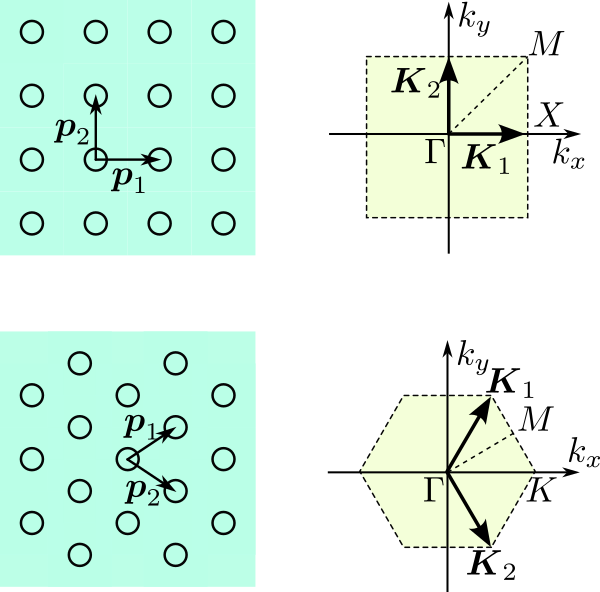
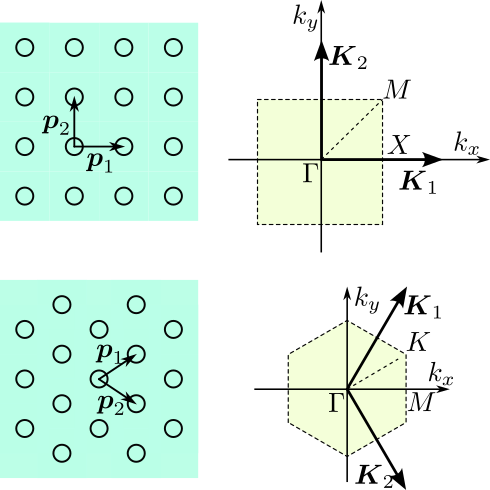
gratings

diff --git a/code/PhC2D_band_diagram.py b/code/PhC2D_band_diagram.py
@@ -3,17 +3,18 @@
 """
 import numpy as np
 from scipy.linalg import toeplitz, eig
+from scipy.special import jv
 import matplotlib.pyplot as plt
 
   # calculate a 2D Toeplitz matrix from a 2D Fourier transform vector
 def toeplitz2(M, nx, ny):
-    CT = np.zeros([2*nx-1, 2*ny-1, 2*ny-1])
+    CT = np.zeros((2*nx-1, ny, ny), dtype=complex)
     for i in range(0, 2*nx-1):
         CT[i,:,:] = toeplitz(M[i,ny-1:],M[i,ny-1::-1])
-    T = np.zeros([(2*nx-1)*(2*ny-1), (2*nx-1)*(2*ny-1)])
+    T = np.zeros((nx*ny, nx*ny), dtype=complex)
     for i in range(0, nx):
         for j in range(0, nx):
-            T[i*ny:(i+1)*ny,j*ny:(j+1)*ny] = CT[nx+j-i,:,:]
+            T[i*ny:(i+1)*ny,j*ny:(j+1)*ny] = CT[nx-1+i-j,:,:]
     return T
 
 class PhotonicCrystal2DCyl:
@@ -33,13 +34,13 @@ class PhotonicCrystal2DCyl:
 
           # calculate the reciprocal lattice vectors and crystal filling factors
         if lattice_type == "square":
-            self.fill_fact = np.pi * radius^2 / period^2; # volume fraction occupied by the cylinders
-            self.K1 = np.array([1, 0])
-            self.K2 = np.array([0, 1])
+            self.fill_fact = np.pi * radius**2 / period**2; # volume fraction occupied by the cylinders
+            self.K1 = np.array([1.0, 0.0])
+            self.K2 = np.array([0.0, 1.0])
         elif lattice_type == "hexagonal":
-            self.fill_fact = (2*np.pi/np.sqrt(3.0)) * radius^2 / period^2 # volume fraction occupied by the cylinders
-            self.K1 = np.array([1, -1/np.sqrt(3.0)])
-            self.K2 = np.array([0, 2/np.sqrt(3.0)])
+            self.fill_fact = (2*np.pi/np.sqrt(3.0)) * radius**2 / period**2 # volume fraction occupied by the cylinders
+            self.K1 = np.array([0.5, 0.5*np.sqrt(3.0)])
+            self.K2 = np.array([0.5, -0.5*np.sqrt(3.0)])
         pass
 
     def calc_reciprocal_lattice(self, n_harm, k_bloch):
@@ -53,9 +54,9 @@ class PhotonicCrystal2DCyl:
         self.Kx = k_bloch[0] + self.K1[0]*k1 + self.K2[0]*k2
         self.Ky = k_bloch[1] + self.K1[1]*k1 + self.K2[1]*k2
         self.Km = np.sqrt(self.Kx**2 + self.Ky**2)
-        #self.Kx = self.Kx.reshape(1, [])
-        #self.Ky = reshape(lattice.Ky, 1, [])
-        #self.Km = reshape(lattice.Km, 1, [])
+        self.Kx = self.Kx.reshape(-1)
+        self.Ky = self.Ky.reshape(-1)
+        self.Km = self.Km.reshape(-1)
         pass
 
     def calc_fourier(self, n_harm):
@@ -65,131 +66,124 @@ class PhotonicCrystal2DCyl:
         '''
         rp = self.radius / self.period
 
-        FM = np.zeros([2*n_harm-1, 2*n_harm-1], dtype=complex)
+        FM = np.zeros([2*n_harm-1, 2*n_harm-1], dtype=float)
 
-        I1, I2 = np.meshgrid(np.linspace(0, n_harm-1, n_harm), np.linspace(0, n_harm-1, n_harm))	
-        tF = 2*np.pi*rp*np.sqrt((self.K1(1)*I1 + self.K2(1)*I2)**2 + (self.K1(2)*I1 + self.K2(2)*I2)**2);
-        ind = abs(tF) > 1.0e-14
-        tF[ind] = 2 * np.besselj(1,tF(ind)) / tF(ind)
-        tF[~ind] = 1.0
-        FM[n_harm-1:,n_harm-1:] = tF
-        FM[n_harm::-1,n_harm::-1] = tF
+        # I1, I2 = np.meshgrid(np.linspace(0, n_harm-1, n_harm), np.linspace(0, n_harm-1, n_harm))	
+        # tF = 2.0*np.pi*rp*np.sqrt((self.K1[0]*I1 + self.K2[0]*I2)**2 + (self.K1[1]*I1 + self.K2[1]*I2)**2)
+        # ind = np.abs(tF) > 1.0e-8
+        # tF[ind] = 2.0 * jv(1,tF[ind]) / tF[ind]
+        # tF[~ind] = 1.0
+        # FM[n_harm-1:,n_harm-1:] = tF
+        # FM[n_harm-1::-1,n_harm-1::-1] = tF
 
-        tF = 2*np.pi*rp*np.sqrt((self.K1(1)*I1 - self.K2(1)*I2)**2 + (self.K1(2)*I1 - self.K2(2)*I2)**2)
-        ind = abs(tF) > 1.0e-14
-        tF[ind] = 2 * np.besselj(1,tF(ind)) / tF(ind)
+        # tF = 2.0*np.pi*rp*np.sqrt((self.K1[0]*I1 - self.K2[0]*I2)**2 + (self.K1[1]*I1 - self.K2[1]*I2)**2)
+        # ind = np.abs(tF) > 1.0e-8
+        # tF[ind] = 2.0 * jv(1,tF[ind]) / tF[ind]
+        # tF[~ind] = 1.0
+        # FM[n_harm:,n_harm-2::-1] = tF[1:,1:]
+        # FM[n_harm-2::-1,n_harm:] = tF[1:,1:]
+
+        I1, I2 = np.meshgrid(np.linspace(-n_harm+1, n_harm-1, 2*n_harm-1), np.linspace(-n_harm+1, n_harm-1, 2*n_harm-1))	
+        tF = 2.0*np.pi*rp*np.sqrt((self.K1[0]*I1 + self.K2[0]*I2)**2 + (self.K1[1]*I1 + self.K2[1]*I2)**2)
+        ind = np.abs(tF) > 1.0e-8
+        tF[ind] = 2.0 * jv(1,tF[ind]) / tF[ind]
         tF[~ind] = 1.0
-        FM[n_harm:,n_harm-2::-1] = tF[1:,1:]
-        FM[n_harm-2::-1,n_harm:] = tF[1:,1:]
-        
-        FM *= self.fill_fact * (1/self.eps_cyl - 1/self.eps_med)
-        FM(n_harm-1, n_harm-1) += 1.0/self.eps_med
+        FM = self.fill_fact * (1.0/self.eps_cyl - 1.0/self.eps_med) * tF
+        FM[n_harm-1, n_harm-1] += 1.0/self.eps_med
 
         return FM
 
-    def get_eig_mat(self, n_harm, polarization, FM):
+    def get_eig_mat(self, n_harm, polarization, TM):
         '''
         fill the matrix for the 2D photonic crystal eigenvalue problem
         h_harm: total number of Fourier harmonics to calculate in one dimension
         polarization: 'TE', 's' or 'TM', 'p'
-        FM: calculate the 2D Fourier amplitude vector of the inverse dielectric permittivitty
+        TM: Toeplitz matrix of the inverse dielectric permittivitty
         '''
-        TM = toeplitz2(FM, n_harm, n_harm)
         if polarization == 'TE' or polarization == 's':
-            M = TM * self.Km * np.transpose(self.Km)
+            M = TM * (self.Kx.reshape([n_harm*n_harm,1]) * self.Kx.reshape([1,n_harm*n_harm]) \
+                      + self.Ky.reshape([n_harm*n_harm,1]) * self.Ky.reshape([1,n_harm*n_harm]))
         elif polarization == 'TM' or polarization == 'p':
-            M = TM * (self.Kx * np.transpose(self.Kx) + self.Ky * np.transpose(self.Ky))
+            M = TM * self.Km.reshape([n_harm*n_harm,1]) * self.Km.reshape([1,n_harm*n_harm])
         return M
 
 #########################################################################################
 
 def plot_circular_PhC_dispersion_2D():
       # parameters:
-    radius = 0.48 # radius of cylindrical rods
+    radius = 0.48 # radius of cylinders
     period = 1 # period (P > 2R)
-    eps_cyl = 1 # permittivity of cylinders
-    eps_med = 13; # permittivity of the surrounding medium
-    lattice_type = 'hexagonal'; # either "square" or "hexagonal"
+    eps_cyl = 1.0 # permittivity of cylinders
+    eps_med = 1.0 # permittivity of the surrounding medium
+    lattice_type = 'hexagonal' # either "square" or "hexagonal"
 
     polarization = 'TE' # % polarization
     n_harm = 15 # number of Fourier harmonics in one dimension
 
     n_band = 5 # set the number of bands to calculate:
-  
+
       # initialization of the band diagram calculation:
-    np = 30 # number of points in each segment of the dispersion diagram to plot
-    ntot = 3*np+1 # total number of points
-      # symmetry points:
+    npt = 15 # number of points in each segment of the dispersion diagram to plot
+    ntot = 3*npt+1 # total number of points
+      # symmetry points, which define a trajectory in the k-space:
     if lattice_type == 'square':
-        psym = [[0.0, 0.0], [0.5, 0.5], [0.5, 0.0]] # Gamma -> M -> X
+        # psym = [[0.5, 0.5], [0.0, 0.0], [0.5, 0.0], [0.5, 0.5]] # M -> Gamma -> X -> M
+        # symm_points = ['M','$\Gamma$','X','M']
+        psym = [[0.0, 0.0], [0.5, 0.0], [0.5, 0.5], [0.0, 0.0]] # Gamma -> X -> M -> Gamma
+        symm_points = ['$\Gamma$','X','M','$\Gamma$']
     elif lattice_type == 'hexagonal':
-        psym = [[0.0, 0.0], [0.5, 0.5/np.sqrt(3.0)], [2.0/3.0, 0.0]] # Gamma -> M -> K
+        # psym = [[0.5, 0], [0.0, 0.0], [0.5, 0.5/np.sqrt(3.0)], [0.5, 0.0]] # M -> Gamma -> K -> M
+        # symm_points = ['M','$\Gamma$','K','M']
+        psym = [[0.0, 0.0], [0.5, 0], [0.5, 0.5/np.sqrt(3.0)], [0.0, 0.0]] # Gamma -> M -> K ->Gamma
+        symm_points = ['$\Gamma$','M','K', '$\Gamma$']
 
       # initialize the crystal class
     crystal = PhotonicCrystal2DCyl(lattice_type, radius, period, eps_cyl, eps_med)
-      # set of the reciprocal lattice points:
-    crystal.calc_reciprocal_lattice(n_harm, k_bloch)
       # calculate the permittivity Fourier matrix:
-    FM = crystal.calc_fourier(n_harm)
+    T = toeplitz2(crystal.calc_fourier(n_harm), n_harm, n_harm)
 
       # band diagram calculation parameters:
-    k_points = np.zeros([ntot, 2])
-    for ax in range(0,1):
-        k_points[0:np+1,ax] = psym[0][ax] + np.linspace(0,np,np+1) * (psym[1][ax]-psym[0][ax])/np
-        k_points[np+1:2*np+1,ax] = psym[1][ax] + np.linspace(1,np,np) * (psym[2][ax]-psym[1][ax])/np
-        k_points[2*np+1:3*np+1,ax] = psym[2][ax] + np.linspace(1,np,np) * (psym[0][ax]-psym[2][ax])/np
+    k_points = np.zeros((ntot, 2), dtype=float) # points in k-space and two k-vector projections
+    k_plot_axis = np.zeros((ntot)) # points along the k-space trajectory for plotting
+    k_points[0,:] = psym[0][:]
+    lsp = np.linspace(1,npt,npt)
+    k_plot_axis[0] = dk = -np.sqrt((psym[1][0]-psym[0][0])**2 + (psym[1][1]-psym[0][1])**2)
+    for sec in range(0,3): # section on the trajectory
+        for cr in range(0,2): # x,y coordinate
+            k_points[sec*npt+1:(sec+1)*npt+1,cr] = psym[sec][cr] + lsp * (psym[sec+1][cr]-psym[sec][cr])/npt
+        k_plot_axis[sec*npt+1:(sec+1)*npt+1] = dk + \
+            lsp * np.sqrt((k_points[sec*npt+2,0]-k_points[sec*npt+1,0])**2 + (k_points[sec*npt+2,1]-k_points[sec*npt+1,1])**2)
+        dk += np.sqrt((psym[sec+1][0]-psym[sec][0])**2 + (psym[sec+1][1]-psym[sec][1])**2)
 
-    data_band = np.zeros([n_band, ntot]); # array to store the data
+    data_band = np.zeros((n_band, ntot), dtype=float); # array to store the data
     for k in range(0, ntot):
+          # set of the reciprocal lattice points:
         crystal.calc_reciprocal_lattice(n_harm, k_points[k,:])
-        M = crystal.get_eig_mat(n_harm, polarization, FM)
+        M = crystal.get_eig_mat(n_harm, polarization, T)
         eigval, eigvect = eig(M)
-        eigenval = np.sqrt(eigenval)
-        indices_sorted = np.argsort(np.real(eigenval))
-        W = eigenval.flat[indices_sorted]
-        data_band[:,k] = W[0:n_band]
-    
-    k_axis = np.sqrt(np.sum(k_points[:,:]**2, axis=-1))
+        eigval = (np.sqrt(eigval.flat))[np.real(eigval) > 1.0e-12]
+        indices_sorted = np.argsort(np.real(eigval))
+        W = eigval.flat[indices_sorted]
+        data_band[:,k] = np.real(W[0:n_band])
+        #print(np.real(eigval.flat[indices_sorted]))
+        #input()
 
-delta_k = np.sqrt((x2-x1)^2 + (y2-y1)^2); # k-line shift
-
-  # line between points 2 and 3
-for i in range(0, n23):
-    k_bloch = np.array([((i-0.5)/n23) * (x3-x2) + x2, ((i-0.5)/n23) * (y3-y2) + y2])
-    crystal.calc_reciprocal_lattice(n_harm, k_bloch)
-    M = crystal.get_eig_mat(n_harm, polarization, FM)
-    eigval, eigvect = eig(M)
-    eigenval = np.sqrt(eigenval)
-    indices_sorted = np.argsort(np.real(eigenval))
-    W = eigenval.flat[indices_sorted]
-    k_points[n12+i] = delta_k + np.sqrt((k_bloch[0]-x2)^2 + (k_bloch[1]-y2)^2)
-    data_band[:, n12+i] = W[0:n_band-1]
-
-delta_k = delta_k + np.sqrt((x3-x2)^2 + (y3-y2)^2)
-
-  # line between points 3 and 1
-for i in range(0, n31):
-    k_bloch = np.array([((i-0.5)/n31) * (x1-x3) + x3, ((i-0.5)/n31) * (y1-y3) + y3])
-    crystal.calc_reciprocal_lattice(n_harm, k_bloch)
-    M = crystal.get_eig_mat(n_harm, polarization, FM)
-    eigval, eigvect = eig(M)
-    eigenval = np.sqrt(eigenval)
-    indices_sorted = np.argsort(np.real(eigenval))
-    W = eigenval.flat[indices_sorted]
-    k_points[n12+n23+i] = delta_k + np.sqrt((k_bloch[0]-x3)^2 + (k_bloch[1]-y3)^2);
-    data_band[:,n12+n23+i] = W[0:n_band-1]
-
-  ## plot the band diagram:
-
-plt.rc('text', usetex=True)
-plt.rc('font', family='serif')
-for k in range (0, n_band):
-    plt.plot(k_points, data_band[k,:], color='blue')
-plt.xlabel(r"k-vector trajectory'")
-plt.ylabel(r"$\omega\Lambda/2\pi c$")
-plt.show()
-plt.xticks([0, (np.sqrt((x2-x1)^2+(y2-y1)^2)), delta_k, (delta_k+sqrt((x1-x3)^2 + (y1-y3)^2))], \
-                ['\Gamma','M','X/K','\Gamma'])
+      # plot the band diagram:
+    plt.rc('text', usetex=True)
+    plt.rc('font', family='serif')
+    for k in range (0, n_band):
+        plt.plot(k_plot_axis, data_band[k,:], color='blue')
+    plt.xlabel(r"k-vector trajectory'")
+    plt.ylabel(r"$\omega\Lambda/2\pi c$")
+    xpoints = [-np.sqrt((psym[1][0]-psym[0][0])**2 + (psym[1][1]-psym[0][1])**2), \
+               0,\
+               np.sqrt((psym[2][0]-psym[1][0])**2 + (psym[2][1]-psym[1][1])**2),\
+               np.sqrt((psym[2][0]-psym[1][0])**2 + (psym[2][1]-psym[1][1])**2) +\
+               np.sqrt((psym[3][0]-psym[2][0])**2 + (psym[3][1]-psym[2][1])**2)]
+    plt.xlim((xpoints[0], xpoints[3]))
+    plt.ylim(bottom=0)
+    plt.xticks(xpoints, symm_points)
+    plt.show()
 
 if __name__ == "__main__" and __package__ is None:
     plot_circular_PhC_dispersion_2D()
